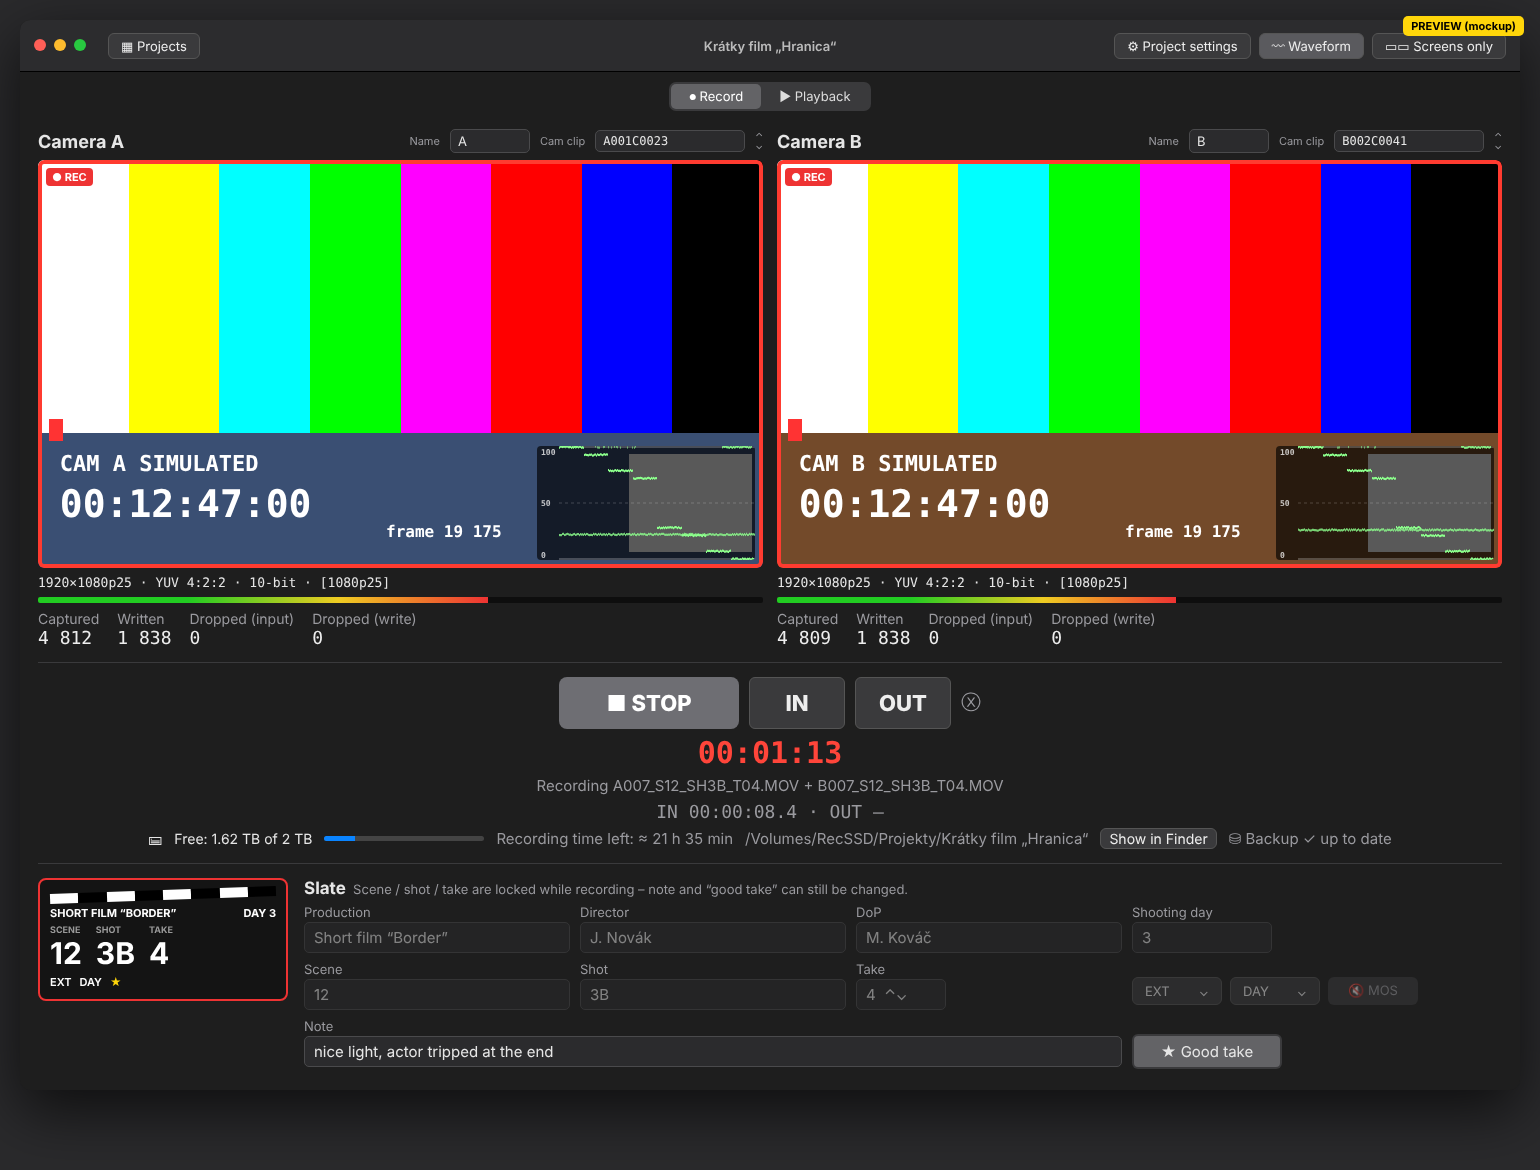
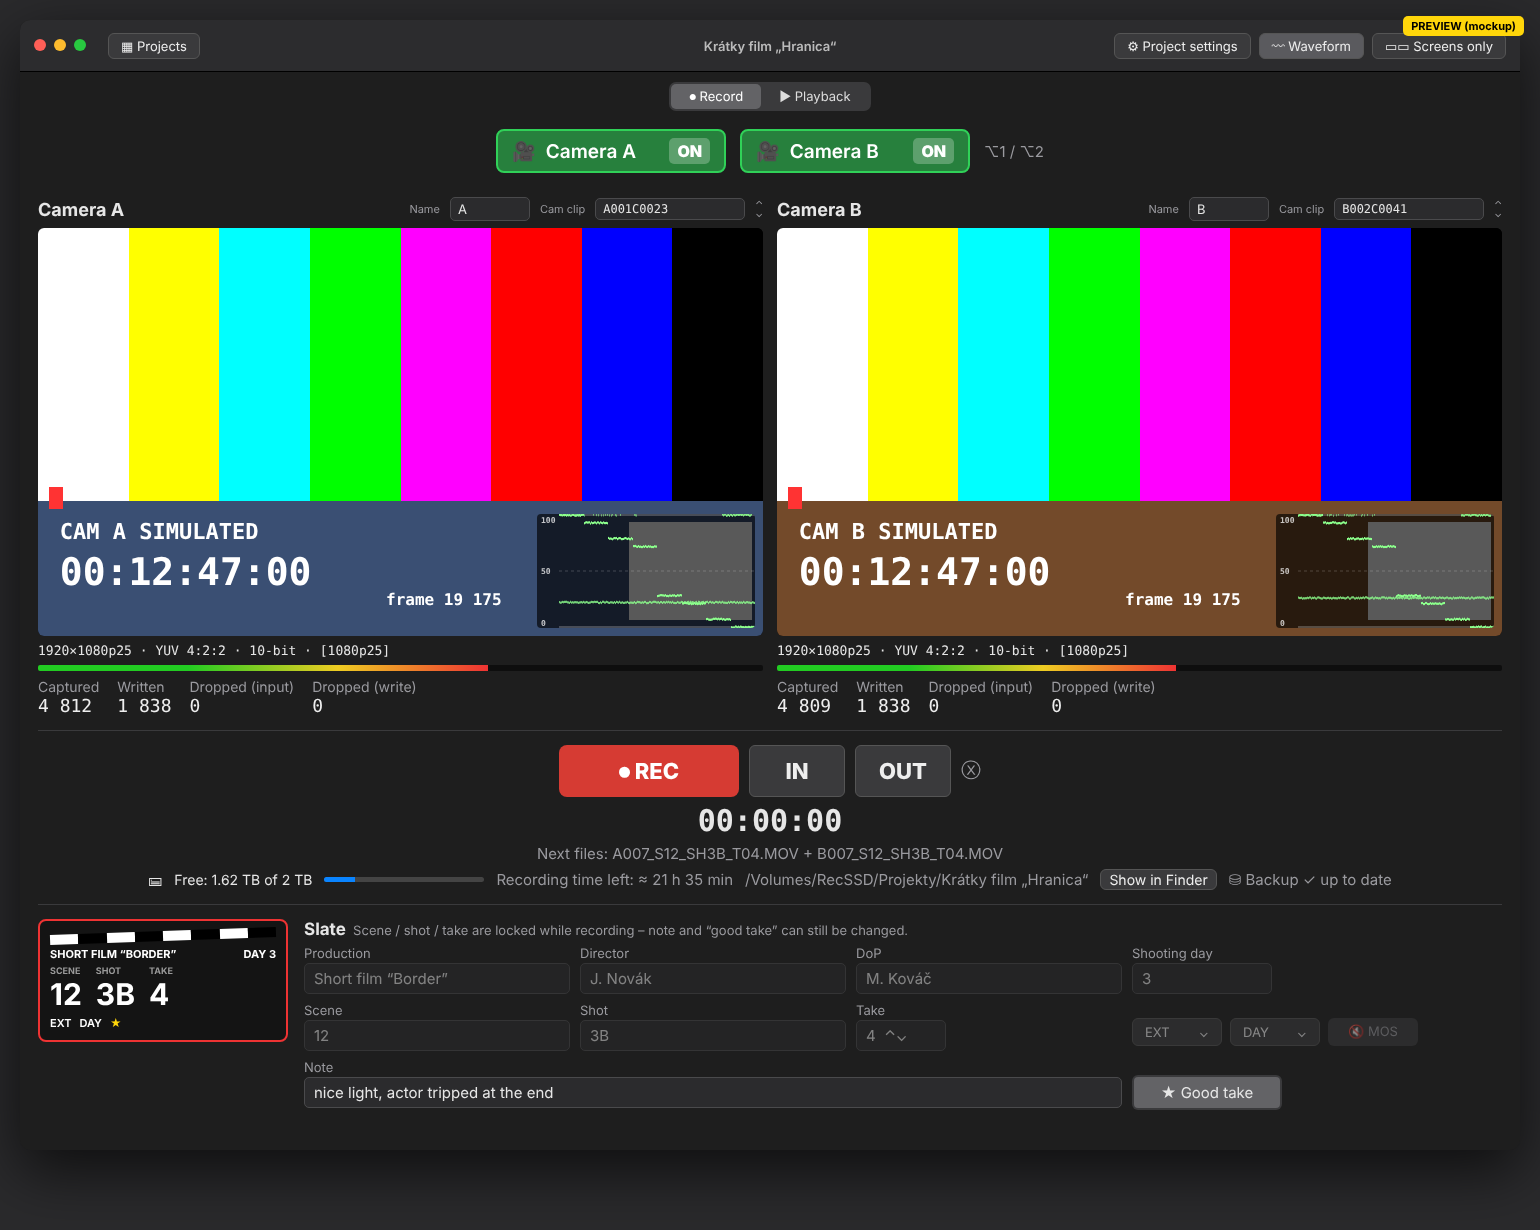
Record: big coloured Camera A/B ON/OFF buttons, updated mockups
Claude-Session: https://claude.ai/code/session_01SjxyfTkJQH7RKsrkA8EJQA

diff --git a/DualCamRecorder/Views/RecordView.swift b/DualCamRecorder/Views/RecordView.swift
@@ -168,32 +168,32 @@ struct RecordView: View {
     }
 
     /// Two-camera projects: switch camera A or B off for a while – the other fills the screen and records alone.
+    /// Big ON / OFF buttons for camera A and B (two-camera projects). Turning one camera off makes the
+    /// other fill the screen and record alone – only until it is turned on again or the project is reopened.
     private var cameraSwitches: some View {
-        HStack(spacing: 12) {
-            Text("Cameras").foregroundStyle(.secondary)
-            SegmentGroup {
-                ForEach(CameraRole.allCases) { role in
-                    Toggle(isOn: Binding(get: { settings.isCameraOn(role) },
-                                         set: { controller.setCamera(role, on: $0) })) {
-                        Label("Camera \(role.rawValue)", systemImage: settings.isCameraOn(role) ? "video.fill" : "video.slash")
-                    }
-                    .help("Camera \(role.rawValue) on / off (⌥\(role == .a ? 1 : 2))")
+        HStack(spacing: 14) {
+            ForEach(CameraRole.allCases) { role in
+                CameraSwitchButton(name: role == .a ? settings.cameraNameA : settings.cameraNameB, role: role,
+                                   isOn: settings.isCameraOn(role)) {
+                    controller.toggleCamera(role)
                 }
-            }
-            .toggleStyle(SegmentToggleStyle(width: 150))
-            .disabled(controller.isRecording)
-            .background {
-                ZStack {
-                    ShortcutButton(key: "1", modifiers: [.option]) { controller.toggleCamera(.a) }
-                    ShortcutButton(key: "2", modifiers: [.option]) { controller.toggleCamera(.b) }
-                }
+                .help("Camera \(role.rawValue) on / off (⌥\(role == .a ? 1 : 2))")
             }
             if settings.activeRoles.count == 1 {
-                Text("Only camera \(settings.activeRoles[0].rawValue) records")
+                Label("Only camera \(settings.activeRoles[0].rawValue) records", systemImage: "exclamationmark.triangle.fill")
+                    .font(.title3.weight(.semibold))
                     .foregroundStyle(.orange)
+            } else {
+                Text("⌥1 / ⌥2").font(.callout).foregroundStyle(.secondary)
             }
         }
-        .font(.title3)
+        .disabled(controller.isRecording)
+        .background {
+            ZStack {
+                ShortcutButton(key: "1", modifiers: [.option]) { controller.toggleCamera(.a) }
+                ShortcutButton(key: "2", modifiers: [.option]) { controller.toggleCamera(.b) }
+            }
+        }
         .frame(maxWidth: .infinity)
     }
 
@@ -327,5 +327,46 @@ struct CameraScreen: View {
             }
             .padding(8)
         }
+    }
+}
+
+/// Large coloured ON / OFF button for one camera (green = on, red outline = off).
+struct CameraSwitchButton: View {
+    let name: String
+    let role: CameraRole
+    let isOn: Bool
+    let action: () -> Void
+    @Environment(\.isEnabled) private var isEnabled
+
+    var body: some View {
+        Button(action: action) {
+            HStack(spacing: 10) {
+                Image(systemName: isOn ? "video.fill" : "video.slash.fill")
+                    .font(.system(size: 20, weight: .semibold))
+                Text("Camera \(role.rawValue)" + (name != role.rawValue && !name.isEmpty ? " (\(name))" : ""))
+                    .font(.title3.weight(.semibold))
+                    .lineLimit(1)
+                Spacer(minLength: 6)
+                Text(isOn ? "ON" : "OFF")
+                    .font(.headline.weight(.heavy))
+                    .padding(.horizontal, 8).padding(.vertical, 3)
+                    .background(RoundedRectangle(cornerRadius: 5)
+                        .fill(isOn ? Color.white.opacity(0.25) : Color.red.opacity(0.25)))
+            }
+            .padding(.horizontal, 14)
+            .frame(width: 230, height: 44)
+            .foregroundStyle(isOn ? Color.white : Color.red)
+            .background(
+                RoundedRectangle(cornerRadius: 8)
+                    .fill(isOn ? Color.green.opacity(0.55) : Color.black.opacity(0.35))
+            )
+            .overlay(
+                RoundedRectangle(cornerRadius: 8)
+                    .strokeBorder(isOn ? Color.green : Color.red, lineWidth: 2)
+            )
+            .opacity(isEnabled ? 1 : 0.55)
+            .contentShape(RoundedRectangle(cornerRadius: 8))
+        }
+        .buttonStyle(.plain)
     }
 }

diff --git a/README.md b/README.md
@@ -59,7 +59,7 @@ Rozhranie aplikácie je **v angličtine** (Record / Playback / Slate …); tento
 - V Playback → **Edit slate…** sa dajú hodnoty dodatočne opraviť.
 
 ### Dočasné vypnutie jednej kamery (Record, ⌥1 / ⌥2)
-- V projekte s dvoma kamerami sú nad obrazmi tlačidlá **Camera A / Camera B**. Vypnutá kamera
+- V projekte s dvoma kamerami sú nad obrazmi veľké tlačidlá **Camera A ON / Camera B ON** (zelené = zapnutá, červené OFF = vypnutá). Vypnutá kamera
   zmizne, druhá sa roztiahne na celú šírku a **nahráva sa len ona** (aj Cam clip sa zvýši len jej).
 - Aspoň jedna kamera ostáva zapnutá; počas nahrávania sa prepínať nedá. Vypnutá kamera beží ďalej
   na pozadí, takže sa zapne okamžite. Platí aj v Screens only a pre živý náhľad na telefóny.
